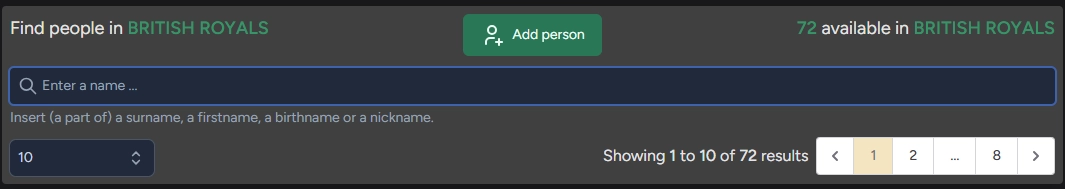
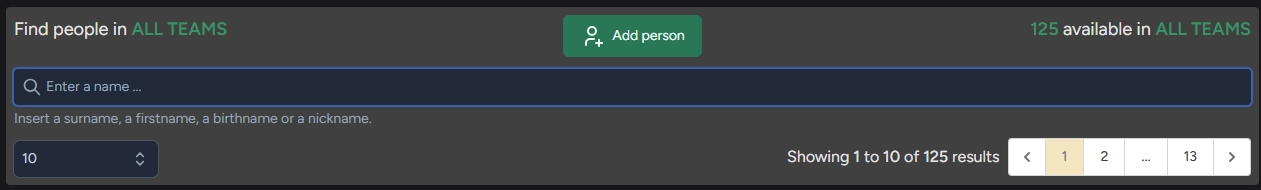
Improved Search procedure

diff --git a/app/Models/Person.php b/app/Models/Person.php
@@ -12,13 +12,13 @@ use Illuminate\Database\Eloquent\Relations\BelongsTo;
 use Illuminate\Database\Eloquent\Relations\HasMany;
 use Illuminate\Database\Eloquent\SoftDeletes;
 use Illuminate\Support\Collection;
-use Illuminate\Support\Facades\DB;
 use Korridor\LaravelHasManyMerged\HasManyMerged;
 use Korridor\LaravelHasManyMerged\HasManyMergedRelation;
 use Spatie\Activitylog\LogOptions;
 use Spatie\Activitylog\Traits\LogsActivity;
 use Spatie\MediaLibrary\HasMedia;
 use Spatie\MediaLibrary\InteractsWithMedia;
+use ErlandMuchasaj\Sanitize\Sanitize;
 
 class Person extends Model implements HasMedia
 {
@@ -97,7 +97,9 @@ class Person extends Model implements HasMedia
     {
         if ($value != '%') {
             collect(str_getcsv($value, ' ', '"'))->filter()->each(function ($term) use ($query) {
-                $word = str_replace(['%', '_'], ['\\%', '\\_'], $term);
+                $word = Sanitize::sanitize($term); // sanitize user input
+                
+                $word = str_replace(['%', '_'], ['\\%', '\\_'], $word);
 
                 $searchTerm = $word . '%';
 

diff --git a/lang/de/app.php b/lang/de/app.php
@@ -98,7 +98,7 @@ return [
 
     'people_search'             => 'Finde personen in <span class="text-emerald-600"><strong>:scope</strong></span></span>',
     'people_search_placeholder' => 'Geben Sie einen Namen ein ...',
-    'people_search_tip'         => 'Geben Sie (einen Teil von) einen Nachnamen, einen Vornamen, einen Geburtsnamen oder einen Spitznamen ein.',
+    'people_search_tip'         => 'Geben Sie einen Nachnamen, einen Vornamen, einen Geburtsnamen oder einen Spitznamen ein.',
     'people_found'              => '<span class="text-emerald-600"><strong>:found</strong></span> gefunden mit dem Schlagwort <span class="text-emerald-600"><strong>:keyword</strong></span> in <span class="text-emerald-600"><strong>:total</strong></span> verfügbar in <span class="text-emerald-600"><strong>:scope</strong></span>',
     'people_available'          => '<span class="text-emerald-600"><strong>:total</strong></span> verfügbar in <span class="text-emerald-600"><strong>:scope</strong></span></span>',
 

diff --git a/lang/nl/app.php b/lang/nl/app.php
@@ -98,7 +98,7 @@ return [
 
     'people_search'             => 'Zoek personen in <span class="text-emerald-600"><strong>:scope</strong></span></span>',
     'people_search_placeholder' => 'Voer een naam in ...',
-    'people_search_tip'         => 'Vul (een deel van) een achternaam, een voornaam, een geboortenaam of een bijnaam in.',
+    'people_search_tip'         => 'Vul een achternaam, een voornaam, een geboortenaam of een bijnaam in.',
     'people_found'              => '<span class="text-emerald-600"><strong>:found</strong></span> gevonden met term <span class="text-emerald-600"><strong>:keyword</strong></span> in <span class="text-emerald-600"><strong>:total</strong></span></span> beschikbaar in <span class="text-emerald-600"><strong>:scope</strong></span>',
     'people_available'          => '<span class="text-emerald-600"><strong>:total</strong></span> beschikbaar in <span class="text-emerald-600"><strong>:scope</strong></span></span>',
 

diff --git a/lang/en/app.php b/lang/en/app.php
@@ -98,7 +98,7 @@ return [
 
     'people_search'             => 'Find people in <span class="text-emerald-600"><strong>:scope</strong></span></span>',
     'people_search_placeholder' => 'Enter a name ...',
-    'people_search_tip'         => 'Insert (a part of) a surname, a firstname, a birthname or a nickname.',
+    'people_search_tip'         => 'Insert a surname, a firstname, a birthname or a nickname.',
     'people_found'              => '<span class="text-emerald-600"><strong>:found</strong></span> found with keyword <span class="text-emerald-600"><strong>:keyword</strong></span> in <span class="text-emerald-600"><strong>:total</strong></span> available in <span class="text-emerald-600"><strong>:scope</strong></span>',
     'people_available'          => '<span class="text-emerald-600"><strong>:total</strong></span> available in <span class="text-emerald-600"><strong>:scope</strong></span></span>',
 

diff --git a/resources/views/back/developer/dependencies.blade.php b/resources/views/back/developer/dependencies.blade.php
@@ -100,6 +100,9 @@
                         <x-ts-button xs href="https://spatie.be/docs/laravel-backup/" target="_blank" class="ms-5">{{ __('app.documentation') }}</x-ts-button>
                     </li>
                     <li class="py-2">
+                        <x-link href="https://github.com/erlandmuchasaj/sanitize" target="_blank">erlandmuchasaj/sanitize</x-link>
+                    </li>
+                    <li class="py-2">
                         <x-link href="https://github.com/spatie/laravel-medialibrary/" target="_blank">spatie/laravel-medialibrary</x-link>
                         <x-ts-button xs href="https://spatie.be/docs/laravel-medialibrary/" target="_blank" class="ms-5">{{ __('app.documentation') }}</x-ts-button>
                     </li>
